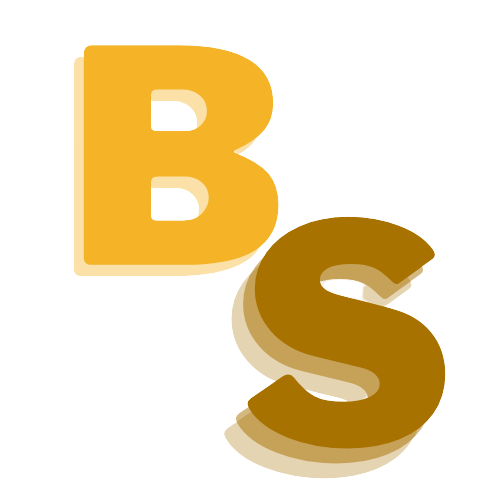
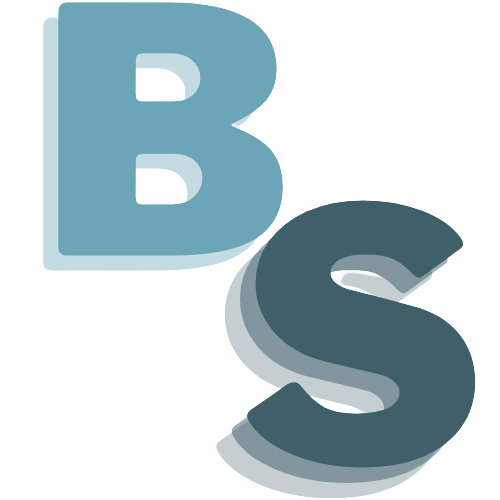
Config Index e Destinos
Configuração inicial na index e na aba de destinos.

diff --git a/dtn/index.html b/dtn/index.html
@@ -1,0 +1,82 @@
+<!DOCTYPE html>
+	<head>
+		<meta charset="UTF-8" />
+		<meta name="viewport" content="width=device-width, initial-scale=1.0" />
+		<meta http-equiv="X-UA-Compatible" content="ie=edge" />
+		<meta name="viewport" content="width=device-width, initial-scale=1">
+		<link rel="stylesheet" href="https://www.w3schools.com/w3css/4/w3.css">
+		<link href="https://fonts.googleapis.com/css?family=Poppins:400,500&display=swap"rel="stylesheet" />
+		<link href="https://fonts.googleapis.com/css2?family=Lobster&display=swap" rel="stylesheet">
+		<link rel="stylesheet" href="../style.css" />
+		<link rel="icon" type="imagem/png" href="../img/icon.png" />
+		<title>BUSTOP - Home</title>
+	</head>
+	<body>
+		<header>
+			<div class="logo-grupo">
+				<img src="../img/logo.png" width="100" height="100" alt="logo" />
+			</div>
+			<nav>
+				<ul class="menu">
+					<li><a class="guia" id="b" href="../index.html">Inicio</a></li>
+					<li><a class="guia" id="b" href="../horarios.html">Horarios</a></li>
+					<li><a class="guia" id="b" href="../informacoes.html">Informações</a></li>
+					<li><a class="guia" id="b" href="../contato.html">Contato</a></li>
+				</ul>
+			</nav>
+			<div class="admin">
+				<div class="w3-dropdown-hover">
+				    <button class="botao3">Ajuda</button>
+				    <div class="w3-dropdown-content w3-bar-block w3-border" style="right:0">
+				      <a href="#" class="w3-bar-item w3-button">Abrir Chamado</a>
+				      <a href="#" class="w3-bar-item w3-button">Enviar Curriculo</a>
+				    </div>
+				</div>
+			</div>
+		</header>
+
+		<main>
+			<center>
+				<h1 style="font-family: 'Lobster'; font-size:400%; color:#3F606B;"> Destinos </h1>
+			</center>
+			<div class="w3-container w3-cell-row">
+			  	<div class="w3-display-container w3-cell destinos" style="width:20%">
+			  		<h1 style="font-family: 'Lobster'; font-size:200%;"> Natal - RN </h1>
+			    	<img class="w3-card-4 w3-hover-opacity" src="./img/natal.jpg" style="width:100%">
+			    	<div class="w3-display-bottom destinos">
+			      	<button class="botao2" id="b">Comprar</button>
+			    	</div>
+			  	</div>
+			  	
+			  	<div class="w3-display-container w3-cell destinos" style="width:20%">
+			  		<h1 style="font-family: 'Lobster'; font-size:200%;"> João Pessoa - PB </h1>
+			    	<img class="w3-card-4 w3-hover-opacity" src="./img/joaopessoa.jpg" style="width:100%">
+			    	<div class="w3-display-bottom destinos">
+			      	<button class="botao2" id="b">Comprar</button>
+			    	</div>
+			  	</div>
+			  	
+			  	<div class="w3-display-container w3-cell destinos" style="width:20%">
+			  		<h1 style="font-family: 'Lobster'; font-size:200%;"> Recife - PE </h1>
+			    	<img class="w3-card-4 w3-hover-opacity" src="./img/recife.jpg" style="width:100%">
+			    	<div class="w3-display-bottom destinos">
+			      	<button class="botao2" id="b">Comprar</button>
+			    	</div>
+			  	</div>
+			  	
+			  	<div class="w3-display-container w3-cell destinos" style="width:20%">
+			    	<h1 style="font-family: 'Lobster'; font-size:200%;"> Fortaleza - CE </h1>
+			    	<img class="w3-card-4 w3-hover-opacity" src="./img/fortaleza.jpg" style="width:100%">
+			    	<div class="w3-display-bottom destinos">
+			      	<button class="botao2" id="b">Comprar</button>
+			    	</div>
+			  	</div>
+			</div>
+
+
+			<img class="bolafundo1" src="../img/bola1.png" alt="" />
+			<img class="bolafundo2" src="../img/bola2.png" alt="" />
+			<img class="bolafundo3" src="../img/bola3.png" alt="" />
+		</main>
+	</body>
+</html>

diff --git a/index.html b/index.html
@@ -3,6 +3,8 @@
 		<meta charset="UTF-8" />
 		<meta name="viewport" content="width=device-width, initial-scale=1.0" />
 		<meta http-equiv="X-UA-Compatible" content="ie=edge" />
+		<meta name="viewport" content="width=device-width, initial-scale=1">
+		<link rel="stylesheet" href="https://www.w3schools.com/w3css/4/w3.css">
 		<link href="https://fonts.googleapis.com/css?family=Poppins:400,500&display=swap"rel="stylesheet" />
 		<link rel="stylesheet" href="./style.css" />
 		<link rel="icon" type="imagem/png" href="img/icon.png" />
@@ -11,19 +13,24 @@
 	<body>
 		<header>
 			<div class="logo-grupo">
-				<img src="./img/logos.png" width="64" height="64" alt="logo" />
-				<h4 class="logo">BUS</br>STOP</h4>
+				<img src="./img/logo.png" width="100" height="100" alt="logo" />
 			</div>
 			<nav>
 				<ul class="menu">
 					<li><a class="guia" id="b" href="#">Inicio</a></li>
 					<li><a class="guia" id="b" href="horarios.html">Horarios</a></li>
-					<li><a class="guia" id="b" href="#">Informações</a></li>
-					<li><a class="guia" id="b" href="#">Contato</a></li>
+					<li><a class="guia" id="b" href="informacoes.html">Informações</a></li>
+					<li><a class="guia" id="b" href="contato.html">Contato</a></li>
 				</ul>
 			</nav>
 			<div class="admin">
-				<a href="admin/"><button class="botao3" id="t">ADMIN</button></a>
+				<div class="w3-dropdown-hover">
+				    <button class="botao3">Ajuda</button>
+				    <div class="w3-dropdown-content w3-bar-block w3-border" style="right:0">
+				      <a href="#" class="w3-bar-item w3-button">Abrir Chamado</a>
+				      <a href="#" class="w3-bar-item w3-button">Enviar Curriculo</a>
+				    </div>
+				</div>
 			</div>
 		</header>
 
@@ -38,8 +45,16 @@
 						</p>
 					</div>
 					<div class="botao">
-						<button class="botao1" id="b">Covid-19</button>
-						<button class="botao2" id="b">Destinos</button>
+						<div class="w3-dropdown-hover">
+							<button class="botao1" id="b">Covid-19</button>
+							<div class="w3-dropdown-content">
+	    						<div class="w3-panel w3-red">
+								  <h3>Atenção!</h3>
+								  <p>O uso de máscara é obrigatório. Fique atento às medidas de segurança necessárias para uma viagem tranquila e segura.</p></br>
+								</div> 
+	    					</div>
+						</div>
+						<a href="./dtn/index.html"><button class="botao2" id="b">Destinos</button></a>
 					</div>
 				</div>
 				<div class="imagem">

diff --git a/style.css b/style.css
@@ -28,11 +28,6 @@ header {
 .logo-grupo {
 	flex: 1;
 }
-.logo {
-	color: #6CA5B8;
-	font-weight: 1000;
-	margin: 5px;
-}
 nav {
 	flex: 2;
 }
@@ -41,7 +36,7 @@ nav {
 	list-style: none;
 }
 .guia {
-	color: white;
+	color: #3F606B;
 	font-size: 20px;
 	text-decoration: none;
 }
@@ -58,20 +53,15 @@ nav {
 	min-height: 80vh;
 	align-items: center;
 }
-.espacamento{
-	text-align: center;
-	position: center;
-	padding:20px;
-}
 .introducao {
 	flex: 1;
 }
 .destinos {
 	animation: drop 1s ease;
-	display: flex;
-	width: 50%;
+	width: 90%;
 	margin: auto;
-	min-height: 30vh;
+	padding: 20px;
+	text-align: center;
 	align-items: center;
 }
 .intro-texto h1 {
@@ -84,16 +74,17 @@ nav {
 .intro-texto p {
 	margin-top: 5px;
 	font-size: 22px;
-	color: white;
+	color: #3F606B;
 }
+
 .botao {
 	padding: 50px 0px 0px 0px;
 	animation: drop 1.5s ease;
 }
 .botao1 {
 	border: 2px solid #3F606B;
-	background: transparent;
-	color: white;
+	background: white;
+	color: #3F606B;
 	width: 150px;
 	height: 50px;
 	cursor: pointer;
@@ -103,18 +94,20 @@ nav {
 	border: none;
 	background: #3F606B;
 	color: white;
+	margin-left: 20px;
 	width: 150px;
 	height: 50px;
 	cursor: pointer;
 	font-size: 16px;
-	margin: 30px 0px 0px 30px;
 }
 .botao3 {
 	border: none;
-	background:#3F606B;
-	color:#fff;
+	background: #6599AB;
+	color:white;
 	cursor:pointer;
 	display:inline-block;
+	width: 160px;
+	height: 40px;
 	font-size:16px;
 	padding:5px 10px;
 } 
@@ -155,8 +148,6 @@ nav {
 }
 #b{position:relative}
 #b:hover{top: -2px;}
-#t{position:relative}
-#t:hover{top: -2px;}
 
 @keyframes drop {
 	0% {

diff --git a/horarios.html b/horarios.html
@@ -11,7 +11,7 @@
 	<body>
 		<header>
 			<div class="logo-grupo">
-				<img src="./img/logo.png" width="150" height="150" alt="logo"/>
+				<img src="./img/logo.png" width="100" height="100" alt="logo"/>
 			</div>
 			<nav>
 				<ul class="menu">
